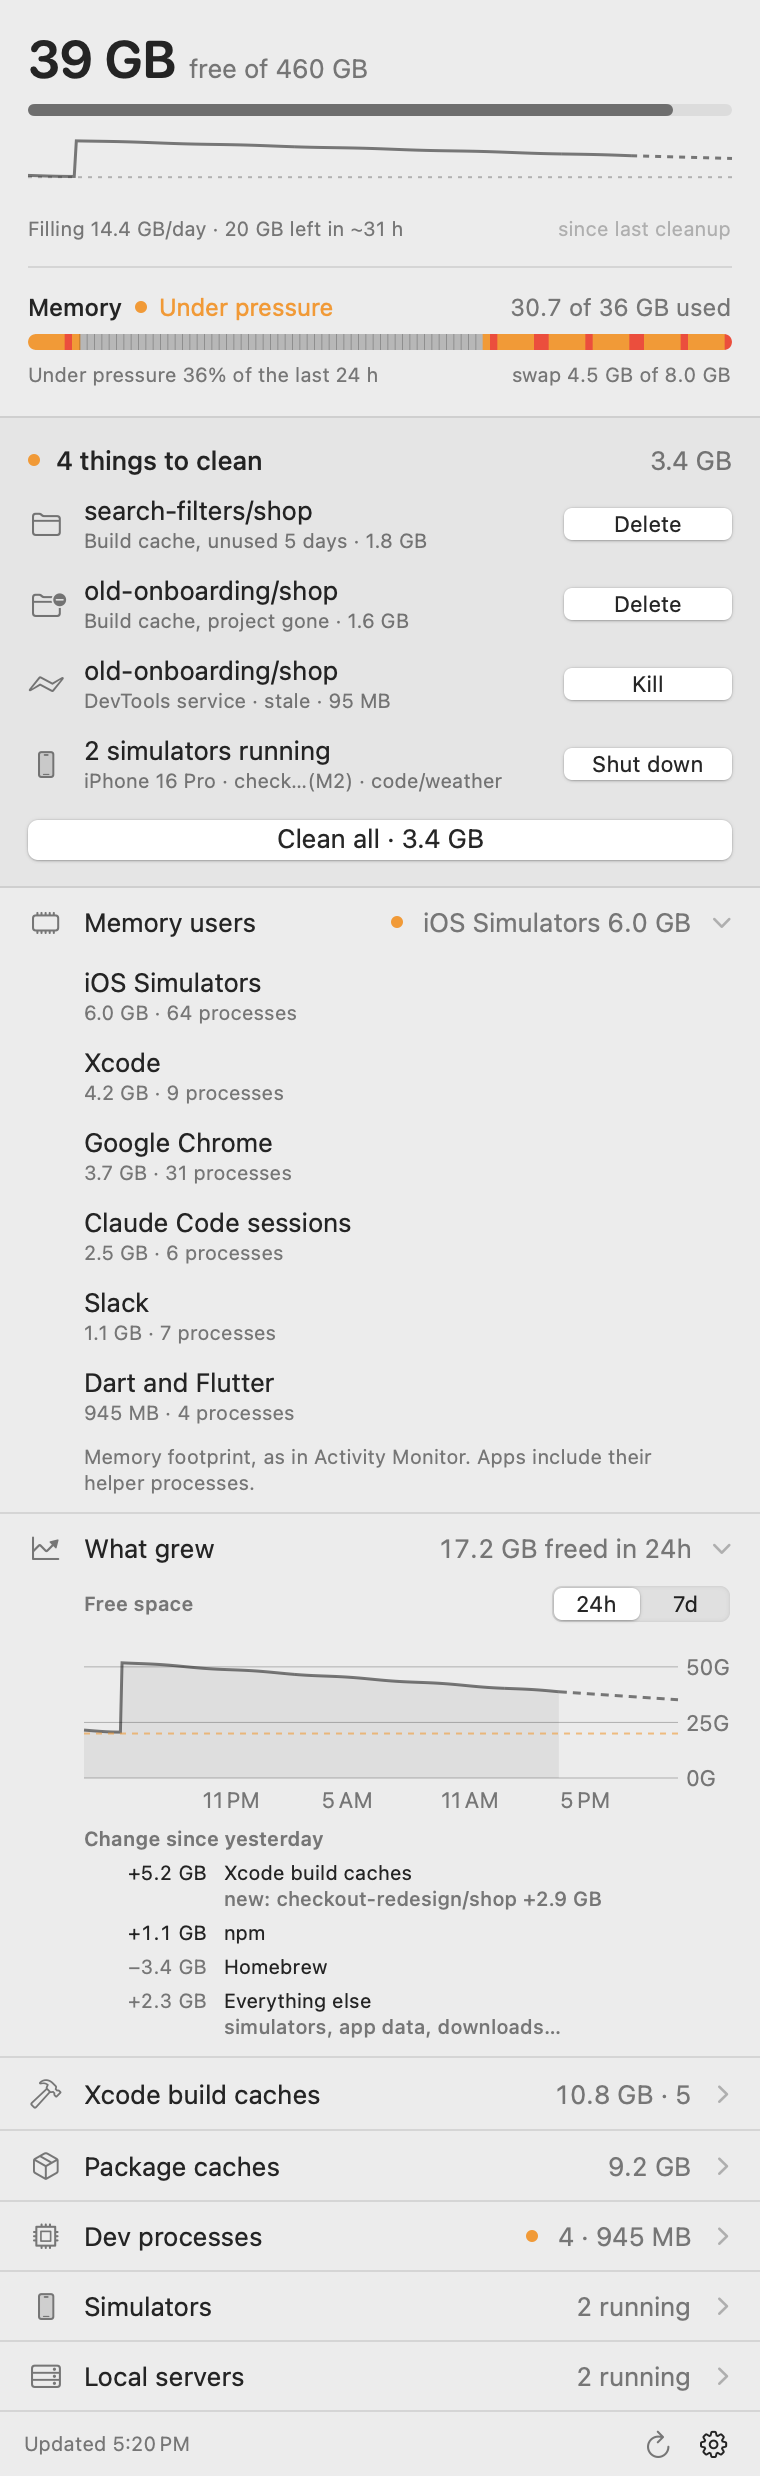
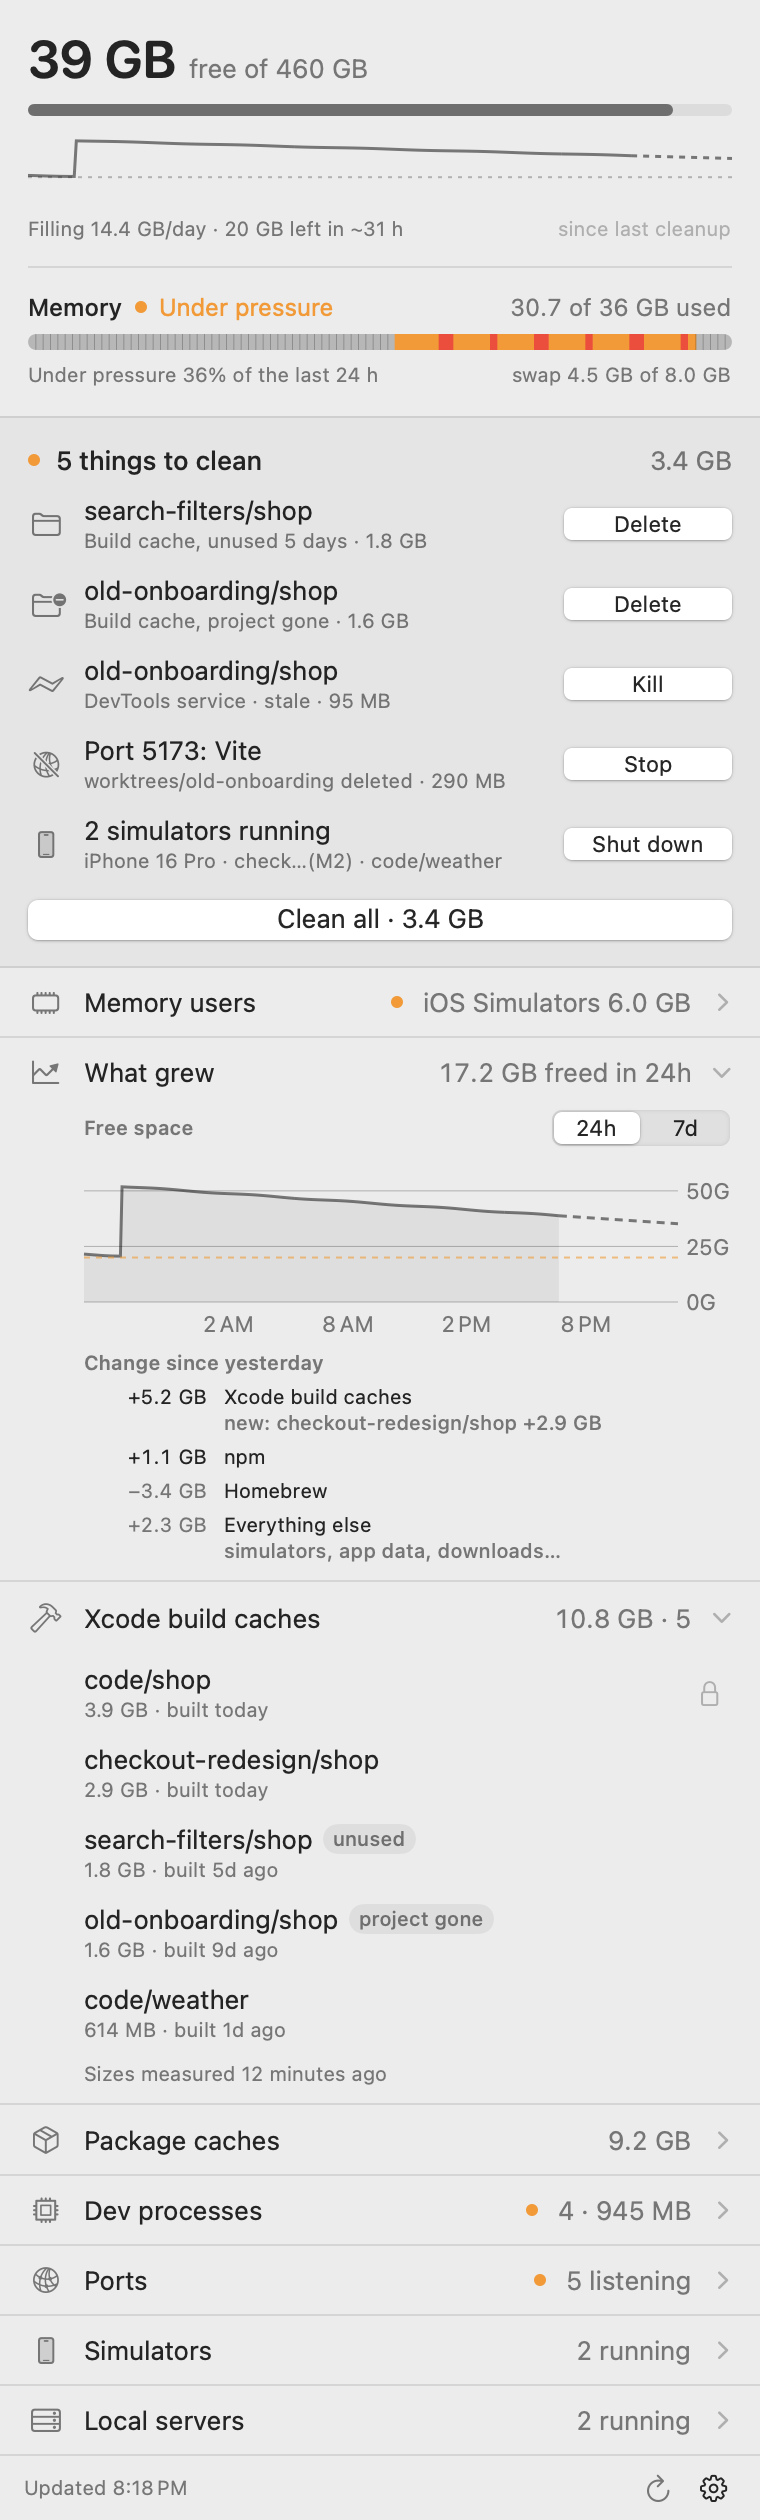
Refresh the README screenshot with the Ports section

diff --git a/README.md b/README.md
@@ -6,7 +6,7 @@ A small macOS menu bar app that keeps an eye on what quietly fills up a develope
 
 *Lapang* is Malay for spacious. *Rasa lapang* is the light feeling of having room to breathe again.
 
-<p align="center"><img src="docs/screenshot.png" width="380" alt="The Lapang panel: free disk space with fill rate and forecast, what grew since yesterday, memory, simulators, dev processes, Xcode build caches, package caches and a custom section"></p>
+<p align="center"><img src="docs/screenshot.png" width="380" alt="The Lapang panel: free disk space with fill rate and forecast, what grew since yesterday, memory, simulators, dev processes, listening ports, Xcode build caches, package caches and a custom section"></p>
 
 The menu bar shows free disk space (`41G`) and adds a warning sign when space is low or filling fast. The label is kept narrow on purpose: on a notched MacBook, menu bar items that don't fit are silently hidden. If that happens anyway, open Lapang from Spotlight or Finder and the same panel appears in a normal window. The panel shows:
 
